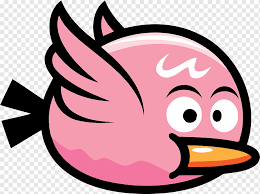
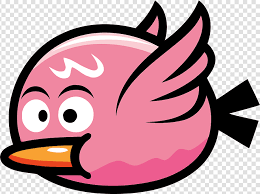
[MH] Add fighter image animation

diff --git a/src/games/fighterAttack/Fighter.js b/src/games/fighterAttack/Fighter.js
@@ -1,27 +1,36 @@
-function Fighter(width, height, speed, color) {
+function Fighter(type, width, speed) {
+  this.type = type;
   this.width = width;
-  this.height = height;
   this.speed = speed;
-  this.color = color; // image로 바꿀것.
+  this.shieldTime = 0;
 }
+
+Fighter.prototype.loadImage = function (images, setPosition) {
+  this.images = [];
+
+  images.forEach((image) => {
+    const img = new Image();
+    img.onload = () => {
+      this.height = (img.height / img.width) * this.width;
+      this.images.push(img);
+      setPosition();
+    };
+    img.src = image;
+  });
+};
 
 Fighter.prototype.setPosition = function (canvasWidth, canvasHeight) {
   this.posX = (canvasWidth - this.width) / 2;
   this.posY = (canvasHeight - this.height) / 2;
 };
 
-Fighter.prototype.animate = function (ctx, volume) {
-  if (volume > 3) {
-    this.posY -= 0.5;
-  } else {
-    this.posY += 0.5;
+Fighter.prototype.getIsCollision = function (obstacles, shieldTime) {
+  this.shieldTime = Math.max(this.shieldTime - 1, 0);
+
+  if (this.shieldTime !== 0) {
+    return false;
   }
 
-  ctx.fillStyle = this.color;
-  ctx.fillRect(this.posX, this.posY, this.width, this.height);
-};
-
-Fighter.prototype.getIsCollision = function (obstacles) {
   for (let i = 0; i < obstacles.length; i++) {
     const layouts = obstacles[i].layouts;
 
@@ -41,11 +50,33 @@ Fighter.prototype.getIsCollision = function (obstacles) {
     });
 
     if (nearObstacles.length) {
+      console.log("true");
+      this.shieldTime = shieldTime;
       return true;
     }
   }
 
   return false;
+};
+
+Fighter.prototype.animate = function (ctx, canvasHeight, volume, isCollision) {
+  if (volume > 3) {
+    this.posY -= 1;
+  } else {
+    this.posY += 0.5;
+  }
+
+  if (this.posY >= canvasHeight - this.height) {
+    this.posY = canvasHeight - this.height;
+  }
+
+  if (this.posY <= 0) {
+    this.posY = 0;
+  }
+
+  const image = this.images[this.type];
+
+  ctx.drawImage(image, this.posX, this.posY, this.width, this.height);
 };
 
 export default Fighter;

diff --git a/src/components/FighterAttack/FighterAttack.jsx b/src/components/FighterAttack/FighterAttack.jsx
@@ -11,6 +11,7 @@ import tree2 from "../../images/fighterAttack/tree2.png";
 import bird1 from "../../images/fighterAttack/bird1.png";
 import bird2 from "../../images/fighterAttack/bird2.png";
 import cloud1 from "../../images/fighterAttack/cloud1.png";
+import fighter1 from "../../images/fighterAttack/fighter1.jpeg";
 
 const canvasWidth = document.body.clientWidth * 0.8;
 const canvasHeight = document.body.clientWidth * 0.6;
@@ -37,8 +38,10 @@ const FighterAttack = (props) => {
   }, []);
 
   useEffect(() => {
-    const fighter = new Fighter(50, 50, 1, "black");
-    fighter.setPosition(canvasWidth, canvasHeight);
+    const fighter = new Fighter(0, 80, 1);
+    fighter.loadImage([fighter1], () => {
+      fighter.setPosition(canvasWidth, canvasHeight);
+    });
 
     const tree = new Obstacle(
       "onGround",
@@ -47,7 +50,7 @@ const FighterAttack = (props) => {
     );
 
     tree.loadImages([tree1, tree2], () => {
-      tree.setObstacleLayouts(canvasWidth, canvasHeight, 2);
+      tree.setObstacleLayouts(canvasWidth, canvasHeight, 10);
     });
 
     const bird = new Obstacle(
@@ -59,7 +62,7 @@ const FighterAttack = (props) => {
     );
 
     bird.loadImages([bird1, bird2], () => {
-      bird.setObstacleLayouts(canvasWidth, canvasHeight, 2);
+      bird.setObstacleLayouts(canvasWidth, canvasHeight, 5);
     });
 
     const cloud = new Obstacle(
@@ -71,7 +74,7 @@ const FighterAttack = (props) => {
     );
 
     cloud.loadImages([cloud1], () => {
-      cloud.setObstacleLayouts(canvasWidth, canvasHeight, 2);
+      cloud.setObstacleLayouts(canvasWidth, canvasHeight, 5);
     });
 
     setGameElement({ fighter, tree, bird, cloud });

diff --git a/src/components/FighterAttackFrame/FighterAttackFrame.jsx b/src/components/FighterAttackFrame/FighterAttackFrame.jsx
@@ -25,9 +25,9 @@ const FighterAttackFrame = ({
         const volume = volumeMeter.getVolume();
 
         ctx.clearRect(0, 0, canvasWidth, canvasHeight);
-        fighter.getIsCollision([tree, bird, cloud]);
+        const isCollision = fighter.getIsCollision([tree, bird, cloud], 180);
 
-        fighter.animate(ctx, volume);
+        fighter.animate(ctx, canvasHeight, volume, isCollision);
         tree.animate(ctx, canvasWidth, canvasHeight, 2);
         bird.animate(ctx, canvasWidth, canvasHeight, 1);
         cloud.animate(ctx, canvasWidth, canvasHeight, 0.5);
